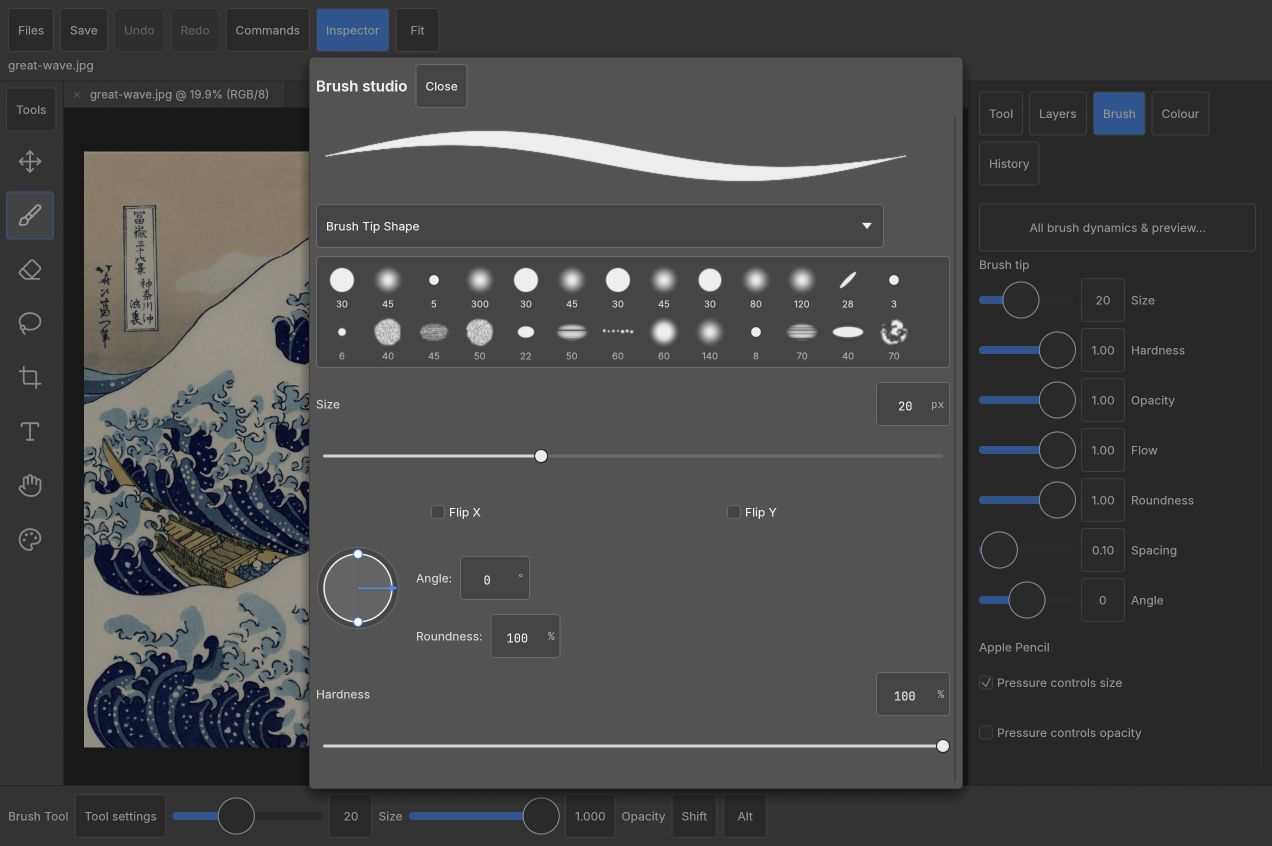
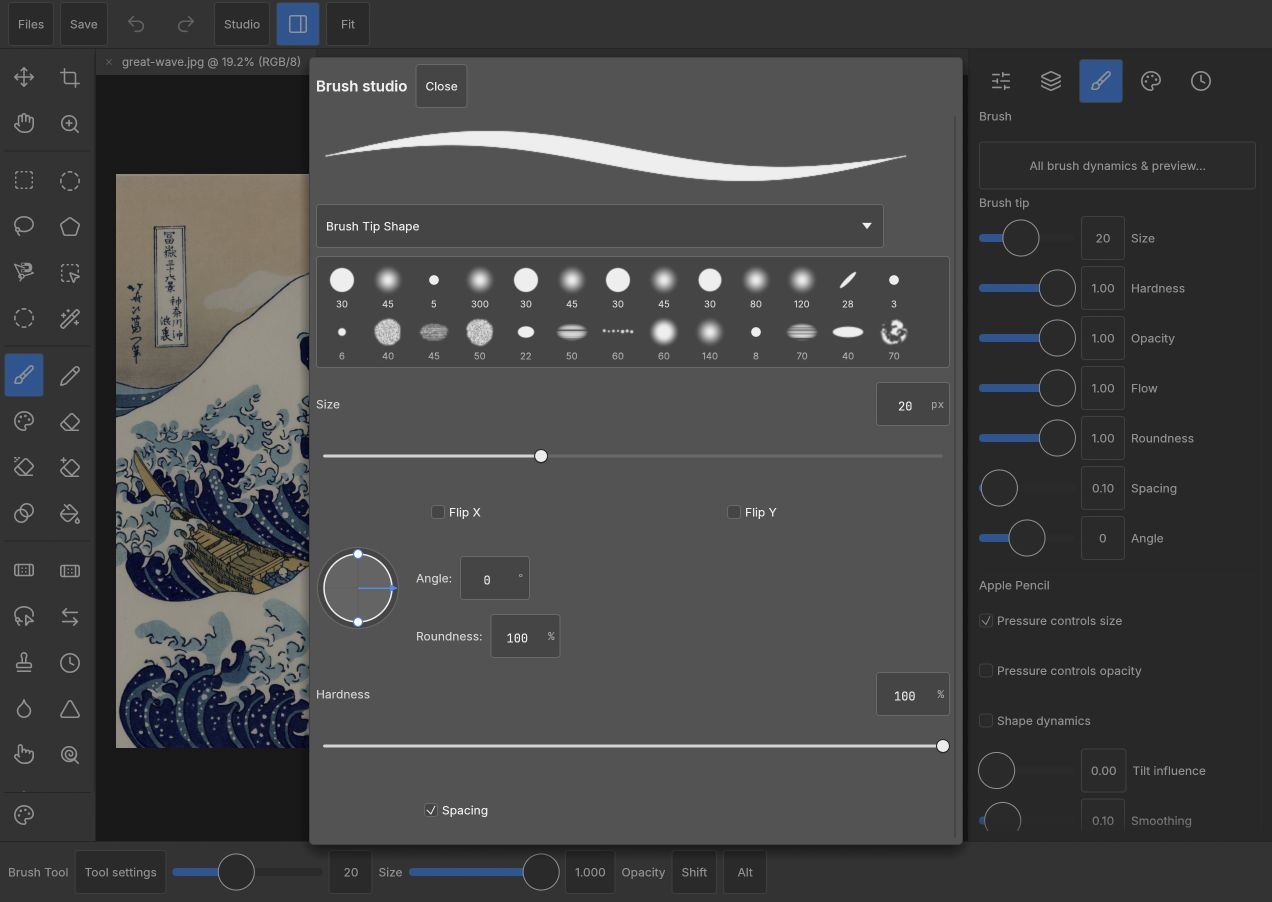
Complete public source readiness checks and refresh captures

diff --git a/docs/release-preparation.md b/docs/release-preparation.md
@@ -1,44 +1,60 @@
-# Preparing the first public repository
+# Public source readiness
 
-As of **8 October 2026**, the source is being prepared in a private repository.
-Public visibility requires V's explicit go-ahead. The hosted demo and optional
-tips are separate, undecided proposals: there is no public endpoint, donation
-link, price, release date, or service commitment in this preparation.
+V approved the presentation and requested licensing review and release checks on
+8 October 2026. **The repository remains private until V authorizes the visibility
+switch.** The hosted demo and optional tips remain separate future decisions.
 
-## Present source
+## Checklist
 
-The extension baseline is `06495ac`: a Rust touch workspace, browser input adapter,
-local server and Pencil diagnostic page. The engine baseline and four patches
-are pinned in `upstream.env` and `patches/photocraft/`. Further editor development
-may continue independently; this preparation does not sweep in uncommitted work.
+- [x] **Presentation and naming:** V reviewed the repository and asked us to proceed
+  with preparation. Lead with the work; v0.1 and the roadmap communicate maturity.
+- [x] **Licensing:** [review completed](licensing.md). MIT OR Apache-2.0 code,
+  upstream notices retained, independent identity, embedded asset terms preserved.
+  `cargo-about` resolves the 240-package Wasm runtime/build graph.
+- [x] **History:** Gitleaks 8.30.1 scanned all published refs and full history,
+  including the latest UI work, with zero findings. The reachable file inventory
+  contains source, docs, patches and our screenshots; no credentials, personal
+  documents or private operational logs. Original commit authorship is preserved.
+- [x] **Clean-clone build and distribution:** 19 tests, formatting, Clippy,
+  optimized Wasm build, server boundary test and packaged notices passed. Fresh
+  browser captures show the integrated UI. A failed license check preserves the
+  served preview byte-for-byte. Results are in [verification](verification.md).
+- [x] **Private security reports:** [SECURITY.md](../SECURITY.md) points to
+  `gg@1puni.com`, the existing GG inbox; read-only access verified during this pass.
+- [x] **Device status:** the [roadmap](ipad-port.md) records physical Pencil tests
+  and workflow refinements as upcoming v0.1 work. Automated/browser evidence is
+  kept separately in the test record. These are development work, not a reason
+  to keep the source closed.
+- [ ] **Public visibility:** awaiting V's explicit go-ahead.
 
-Presentation direction: lead with the solved work and engineering. A v0.1 label
-and a single roadmap communicate maturity; do not repeat disclaimers across the
-README. Credit upstream and state our contribution with equal clarity.
+## Candidate and development handoff
 
-The [acceptance matrix](ipad-port.md) owns implementation gaps, and
-[verification](verification.md) distinguishes previous results from fresh checks.
-The README screenshots show the actual workspace; they are not physical-device
-validation. Keep original commit attribution and disclose AI-assisted development.
+`82be479` integrates the publishing preparation with the other agent's `5eae0db`
+Layers stack and grouped tool navigation. All authorship and both histories are
+preserved. The engine is pinned to public baseline `5896f0b` plus five mail patches,
+producing tree `7545cfe69924ec4f48fee63aa61ebf3ff82c48ac` (equivalent to `af949b1`).
 
-## Before public visibility
+The publishing checkout is separate from ongoing development. Take in remote
+`main` before the next development push. If the development checkout is still at
+`5eae0db` and clean, this is a fast-forward:
 
-- Review the rendered README and naming with V; obtain the explicit public switch.
-- Review all reachable Git history for credentials, personal data and private logs;
-  fix any findings before the switch, not merely in the latest files.
-- Reproduce setup from a clean clone, preserve dependency/license notices, and
-  inspect the actual distributed assets for restricted marks.
-- Confirm a private security-reporting channel and document it.
-- Publish measured iPad/Pencil results when available. If still pending, retain
-  the experimental label and the explicit unverified rows; do not imply completion.
+```sh
+git fetch origin
+git merge --ff-only origin/main
+```
 
-## Next engineering work
+If it has new commits or uncommitted work, preserve that work and merge normally;
+never reset it. Each checkout uses its own `target/` to avoid the stale-UI collision
+found during development. Update `upstream.env` and the patch series together when
+changing the engine, and rerun the license/build checks for the new candidate.
 
-Physical Pencil pressure/tilt and palm tests; portrait/landscape/Split View and
-keyboard runs; repeated PSD save/reopen; long-session and large-document behavior;
-remaining dialog families and recovery. Scope any upstream proposals with the
-maintainers before investing in a large upstream integration.
+## At the public switch
 
-If we later host a demo, decide origin/TLS, asset delivery, browser memory limits,
-support and ongoing costs first. Optional tips would support this independent
-adaptation and must not imply an upstream fee or an official PhotoCraft service.
+After V's go-ahead, confirm the reviewed revision is still current, change this
+repository's visibility, and verify it loads without authentication. Enable
+GitHub private vulnerability reporting then; GitHub makes that feature available
+for public repositories ([documentation](https://docs.github.com/en/code-security/how-tos/report-and-fix-vulnerabilities/configure-vulnerability-reporting/configure-for-a-repository)).
+The email reporting route is already available. Tell the development agent the
+public repository and branch are ready, and update this checklist with the receipt.
+No release tag, public demo, paid service or upstream submission is implied by
+opening the source.

diff --git a/docs/verification.md b/docs/verification.md
@@ -1,6 +1,33 @@
 # Local verification — 2026-10-08
 
-## Repository preparation checks
+## Public readiness checks
+
+Fresh GitHub clone of `82be479`, including the Layers stack and navigation work
+from `5eae0db`, with a new, isolated Cargo target directory:
+
+- `setup.sh` fetched public upstream and applied all five patches. The resulting
+  tree matched `7545cfe69924ec4f48fee63aa61ebf3ff82c48ac`.
+- `cargo fmt --check`, `cargo test --locked` (19 passed), and
+  `cargo clippy --locked --all-targets --no-deps -- -D warnings` passed.
+- `build.sh` produced the optimized WebAssembly distribution at 14:46 UTC,
+  with three existing upstream dead-code warnings. Shell syntax checks passed.
+- `cargo-about 0.9.2 --locked --fail` resolved all 240 runtime/build packages.
+  Every package is represented in the generated license page. Required upstream,
+  asset and translation notices are present and served over HTTP; embedded font
+  terms and the IJG acknowledgement are included. No local manifest paths or
+  restricted ArtCraft logo SVGs appear in the distribution.
+- A deliberately missing license tool caused the build to fail while preserving
+  all 16 previously served files byte-for-byte.
+- `uv run --no-project --python 3.12 python -m unittest test_server` passed.
+- Chrome imported the public-domain Great Wave, displayed the new Layers stack
+  and grouped tool rail, and opened Brush studio. README screenshots were
+  refreshed from this build; provenance is in [visuals](visuals.md).
+- Gitleaks 8.30.1 scanned all refs and full reachable history with zero findings.
+  File inventory and screenshot metadata were also reviewed for private content.
+- Focused review of setup, engine pinning, notice generation and build publication
+  found no unresolved release-preparation defects.
+
+## Initial repository preparation checks
 
 Fresh checks on the `06495ac` extension snapshot plus repository preparation:
 
@@ -14,7 +41,7 @@ Fresh checks on the `06495ac` extension snapshot plus repository preparation:
   NOTICE, upstream attribution and referenced asset license texts.
 - `uv run --no-project --python 3.12 python -m unittest test_server`: passed.
 - Fresh Chrome launch imported the public-domain Great Wave, displayed the layer
-  inspector, and opened the brush studio. The README captures come from this run.
+  inspector, and opened the brush studio. The initial README captures came from this run.
   The launch page and SVG cover were inspected. A browser viewport override did
   not take effect, so this run adds no portrait-device claim; existing Rust layout
   tests cover portrait and Split View dimensions.

diff --git a/docs/visuals.md b/docs/visuals.md
@@ -16,6 +16,6 @@ Hokusai's *The Great Wave off Kanagawa*, c. 1831, public domain.
 To reproduce: build and serve this repo, open `/ipad/?webgl`, import the artwork
 through Open, choose Fit, leave Layers visible and capture the page viewport.
 For the brush capture, choose Brush, then “All brush dynamics & preview”. Captures
-were made in Chrome at 1272×846 CSS pixels on 8 October 2026, from the optimized
-extension snapshot `06495ac` and patched engine tree in `upstream.env`.
+were made in Chrome at 1272×902 pixels on 8 October 2026, from a fresh clone's
+optimized extension snapshot `82be479` and patched engine tree in `upstream.env`.
 Keep browser chrome, private files and unrelated tabs out of the image.
